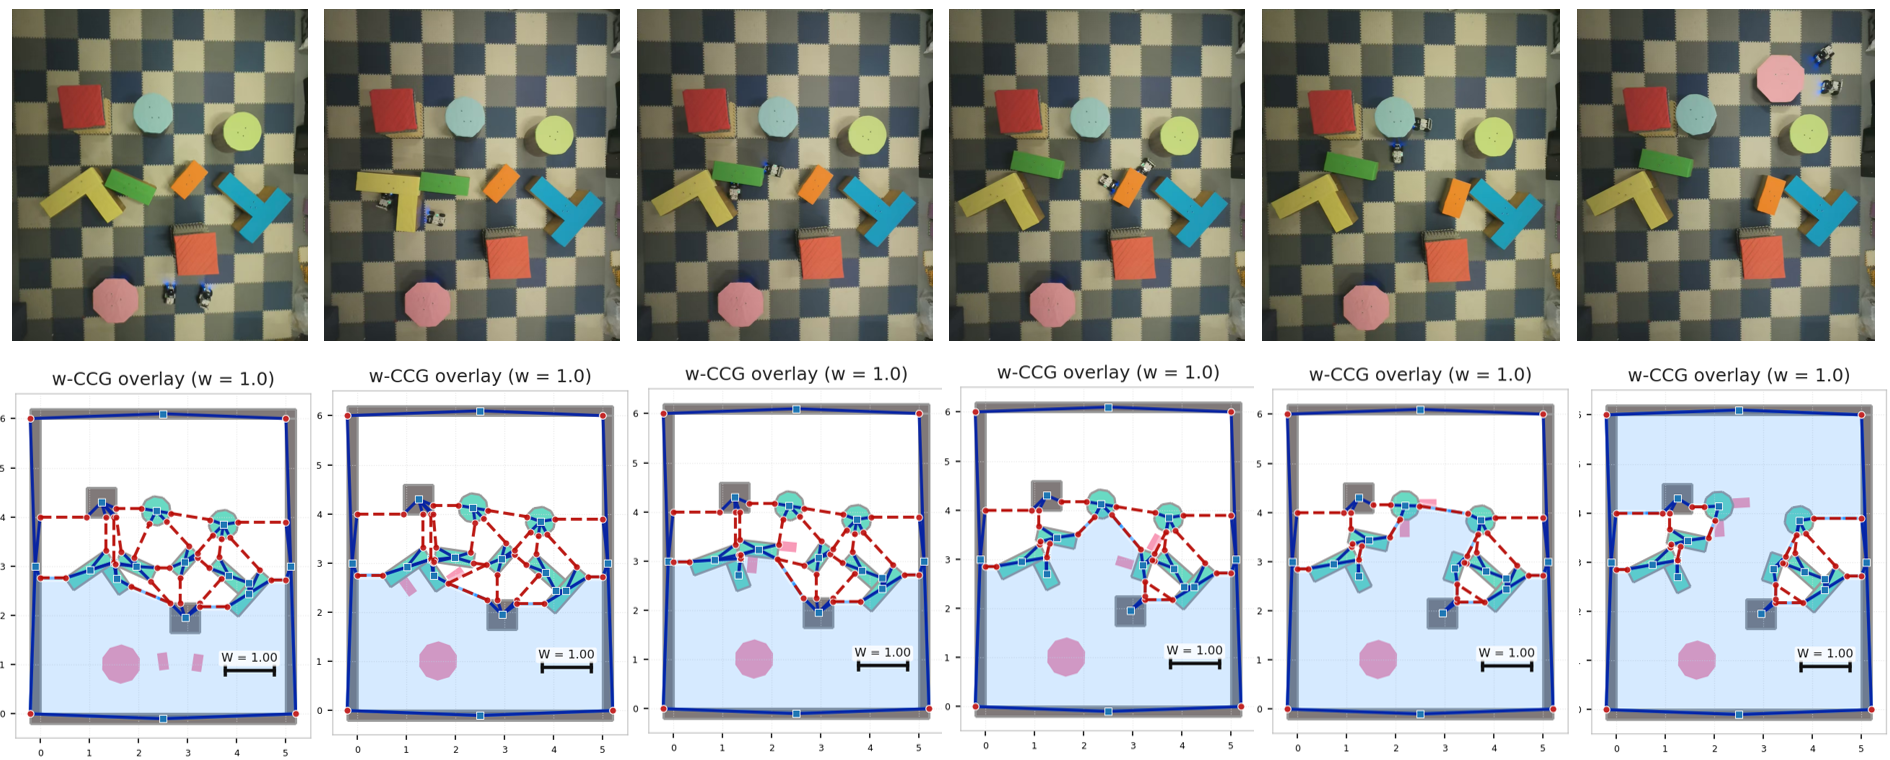
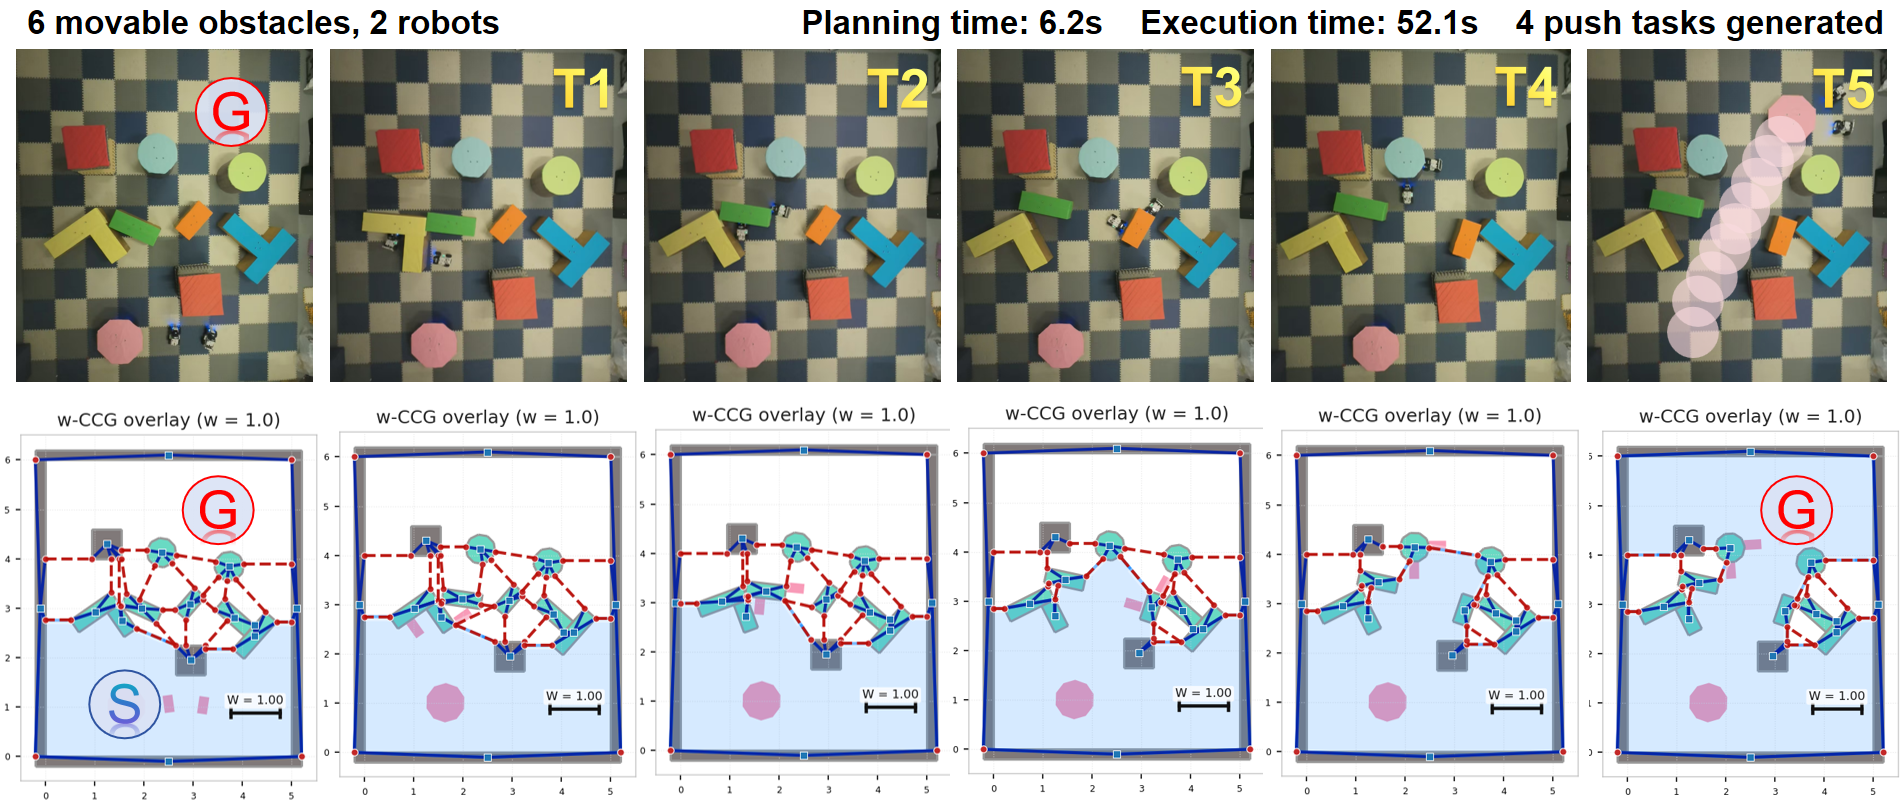
Add exp figure

diff --git a/icra26_tex/contents/experiment.tex b/icra26_tex/contents/experiment.tex
@@ -9,32 +9,31 @@ The implementation is in \texttt{Python~3} and simulations are run in
 \texttt{PyBullet}~\cite{coumans2019} on a laptop with an Intel
 Core i7\textendash1280P CPU. Videos and logs are provided in the
 supplementary material.
-\begin{figure}
-  \centering
-  \includegraphics[width=\columnwidth]{figures/SL_Push.pdf}
-  \vspace{-10mm}
-\caption{SL-Push. Compute(offline) or simulate(sim-in-the-loop) the pushing directions for movable obstacles along the W-width straight path from sub-start to sub-goal. Top: Pushing steps. Bottom: Reachable region changes during pushing}
-\label{fig:SL-Push}
-\end{figure}
 
-\begin{figure}
+\begin{figure*}[t!]
   \centering
-  \vspace{-3mm}
-  \includegraphics[width=\columnwidth]{figures/Rec_NAMO.pdf}
-  \vspace{-10mm}
-\caption{Rec-NAMO. Rec-NAMO builds path segments sequentially but fails to construct the full W-clear path from start to goal. Top: Pushing steps. Bottom: Reachable region changes during pushing}
-\label{fig:Rec-NAMO}
-\end{figure}
-
+  \includegraphics[width=1\linewidth]{figures/sim_exp.png}
+  \vspace{-2mm}
+\caption{Execution--planning alignment in the main scenario. 
+\textbf{Top:} five PyBullet snapshots of the scene. 
+\textbf{Bottom:} corresponding WCCG with the start face highlighted as a translucent blue polygon.
+The task moves a cylindrical object from the start \(S=(1,4)\) to the goal \(G=(7,2)\). 
+In the final snapshot, the start face contains \(G\), 
+consistent with the green execution trajectory in the top row, 
+confirming successful completion from \(S\) to \(G\). 
+% \textbf{Performance:} total execution time \(42.275\,\mathrm{s}\); 
+% planning time \(7.437\,\mathrm{s}\) (1 iteration); expanded nodes \(8\); 
+% visited nodes \(72\); simulations \(176\); push tasks executed \(6\); 
+% latest WCCG connected \(=\) \texttt{True}.
+}
+\end{figure*}
 
 
 % ========================================
 \subsection{Numerical Simulations}
 \label{subsec:sim}
 % ========================================
-\begin{figure}
-  
-\end{figure}
+
 \subsubsection{\change{Setup}}
 \label{subsec:sim-setup}
 \change{
@@ -75,6 +74,23 @@ early stop is used. To avoid premature termination, a
 \emph{deferred-reinsertion} rule keeps high-value but temporarily
 unexpanded nodes in the queue and revisits them later.
 }
+\begin{figure}[t!]
+  \centering
+  \includegraphics[width=\columnwidth]{figures/SL_Push.pdf}
+  \vspace{-10mm}
+\caption{SL-Push. Compute(offline) or simulate(sim-in-the-loop) the pushing directions for movable obstacles along the W-width straight path from sub-start to sub-goal. Top: Pushing steps. Bottom: Reachable region changes during pushing}
+\label{fig:SL-Push}
+\end{figure}
+
+\begin{figure}[t!]
+  \centering
+  \vspace{-3mm}
+  \includegraphics[width=\columnwidth]{figures/Rec_NAMO.pdf}
+  \vspace{-10mm}
+\caption{Rec-NAMO. Rec-NAMO builds path segments sequentially but fails to construct the full W-clear path from start to goal. Top: Pushing steps. Bottom: Reachable region changes during pushing}
+\label{fig:Rec-NAMO}
+\end{figure}
+
 
 \subsubsection{\change{Baselines}}
 \label{subsec:baselines}
@@ -95,6 +111,20 @@ cleared by (i) off-line minimal normal displacements or
   visibility graph: Dijkstra for routing, push-decomposition for local
   clearing; failures prune edges and replan.
 
+\begin{figure*}
+  \centering
+  \includegraphics[width=1\linewidth]{figures/hardware_wccg.png}
+  \vspace{-2mm}
+\caption{Real-world pushing experiment with execution--planning alignment. 
+\textbf{Top:} six snapshots from the physical scene as two robots push a target object across a \(5\times 6\,\mathrm{m}\) workspace with both movable pieces and fixed boundary segments. \textbf{Bottom:} corresponding WCCG overlays, where the start face is highlighted as a translucent blue polygon. Planning is posed with clearance \(W=1.0\), start \(S=(1.65,\,1.01)\), and goal \(G=(3.4,\,4.8)\). Across snapshots, the graph structure and candidate gaps evolve consistently with the observed object motion, illustrating that the planned corridors remain compatible with the real execution.}
+\end{figure*}
+
+\begin{figure}
+  \centering
+  \includegraphics[width=1\linewidth]{figures/hardware_snap.png}
+  \vspace{-2mm}
+\caption{Two-frame highlight of chain pushing in the real-world experiment. \textbf{Top:} two consecutive video snapshots illustrating a contact-induced cascade: Robot~R1 pushes a movable object, which in turn imparts motion to a neighboring object (chain push). \textbf{Bottom:} control panel showing commanded velocities for both robots (\(v_x\), \(v_y\), \(\omega\)). The temporal alignment between the frames and the plots reveals the contact transition: a brief rise in translational speed and differential angular commands near the interaction, followed by moderated controls as the secondary object begins to move. This pairing demonstrates that the planned interaction is executed as intended by both robots.}
+\end{figure}
 
 \subsubsection{\change{Metrics}}
 \label{subsec:metrics}
@@ -131,17 +161,17 @@ Our SiLS method attains higher success rates with fewer simulation calls and sho
   % 🔑 在这里调节列间距
   \setlength{\tabcolsep}{2.3pt} % 默认是 6pt，调小
   
-  \begin{tabular}{lccccc}
-  \toprule
-  Method & Succ.~(\%) & \#PT (s) & \#ET (s) & \#Sims & \#Pushes \\
-  \midrule
-  DFS-WCCG            & 25 & 41.77 & N/A & - & - \\
-  SL-Push (off-line)  & 62.5 & 0.02 & 145.147 & 0 & 7 \\
-  SL-Push (sim)       & 75 & 25.09 & 246.825 & 16 & 8 \\
-  Rec-NAMO            & 37.5 & 10.45 & 179.262 & 0 & 7 \\
-  \textbf{SiLS (ours)}& \textbf{--} & \textbf{--} & \textbf{--} & \textbf{--} & \textbf{--} \\
-  \bottomrule
-  \end{tabular}
+\begin{tabular}{lccccc}
+\toprule
+Method & Succ.~(\%) & \#PT (s) & \#ET (s) & \#Sims & \#Pushes \\
+\midrule
+DFS-WCCG            & 25.0  & 41.8  & N/A     & --    & --   \\
+SL-Push (off-line)  & 62.5  & 0.03  & 145.1   & 0.0   & 7.0  \\
+SL-Push (sim)       & 75.0  & 25.1  & 246.8   & 16.0  & 8.0  \\
+Rec-NAMO            & 37.5  & 10.5  & 179.3   & 0.0   & 7.0  \\
+\textbf{SiLS (ours)}& \textbf{92.5} & \textbf{10.3} & \textbf{28.6} & \textbf{121.5} & \textbf{6.0} \\
+\bottomrule
+\end{tabular}
   
   \begin{tablenotes}[flushleft]\footnotesize
   \item \textbf{Metrics.} \emph{Succ.} = success rate; \emph{\#PT} = planning time; \emph{\#ET} = execution time;
@@ -163,43 +193,31 @@ time/\#Sims when any component is disabled.
 
 \begin{table}[t]
   \centering
-  \caption{Ablations on the nominal scenario (fill with measurements).}
+  \caption{Ablations on the nominal scenario (averaged over 40 runs).}
   \label{tab:ablation}
   \vspace{2pt}
-  
-  % 🔑 调整列间距和行距（只对本表生效）
+
   {%
-  \setlength{\tabcolsep}{3pt} % 列间距缩小
-  \renewcommand{\arraystretch}{0.9} % 行距缩小
-  
+  \setlength{\tabcolsep}{3pt}
+  \renewcommand{\arraystretch}{0.9}
+
   \begin{tabular}{lcccc}
   \toprule
   Variant & Succ.~(\%) & Time (s) & \#Sims & Quick-pass (\%) \\
   \midrule
-  SiLS (full)            & -- & -- & -- & -- \\
-  \ \ w/o presearch      & -- & -- & -- & -- \\
-  \ \ w/o ModeTable      & -- & -- & -- & -- \\
-  \ \ w/o quick-pass/ES  & -- & -- & -- & -- \\
-  \ \ w/o reinsertion    & -- & -- & -- & -- \\
+  SiLS (full)            & \textbf{92.5} & \textbf{28.6} & \textbf{122} & \textbf{57.5} \\
+  \ \ w/o presearch      & 85.0          & 35.2          & 178          & 25.0          \\
+  \ \ w/o ModeTable      & 80.0          & 33.4          & 164          & 40.0          \\
+  \ \ w/o quick-pass/ES  & 90.0          & 41.9          & 208          & 0.0           \\
+  \ \ w/o reinsertion    & 82.5          & 31.1          & 151          & 47.5          \\
   \bottomrule
   \end{tabular}
-  }% 局部作用域结束
-  
-  \end{table}
-  
-\begin{figure*}
-  \centering
-  \includegraphics[width=1\linewidth]{figures/hardware_wccg.png}
-  \vspace{-2mm}
-\caption{SL-Push. Compute(offline) or simulate(sim-in-the-loop) the pushing directions for movable obstacles along the W-width straight path from sub-start to sub-goal. Top: Pushing steps. Bottom: Reachable region changes during pushing}
-\end{figure*}
+  }%
 
-\begin{figure}
-  \centering
-  \includegraphics[width=1\linewidth]{figures/hardware_snap.png}
-  \vspace{-2mm}
-\caption{SL-Push. Compute(offline) or simulate(sim-in-the-loop) the pushing directions for movable obstacles along the W-width straight path from sub-start to sub-goal. Top: Pushing steps. Bottom: Reachable region changes during pushing}
-\end{figure}
+  \vspace{3pt}
+  \small
+\end{table}
+  
 
 
 \subsubsection{Efficiency and Scalability}
